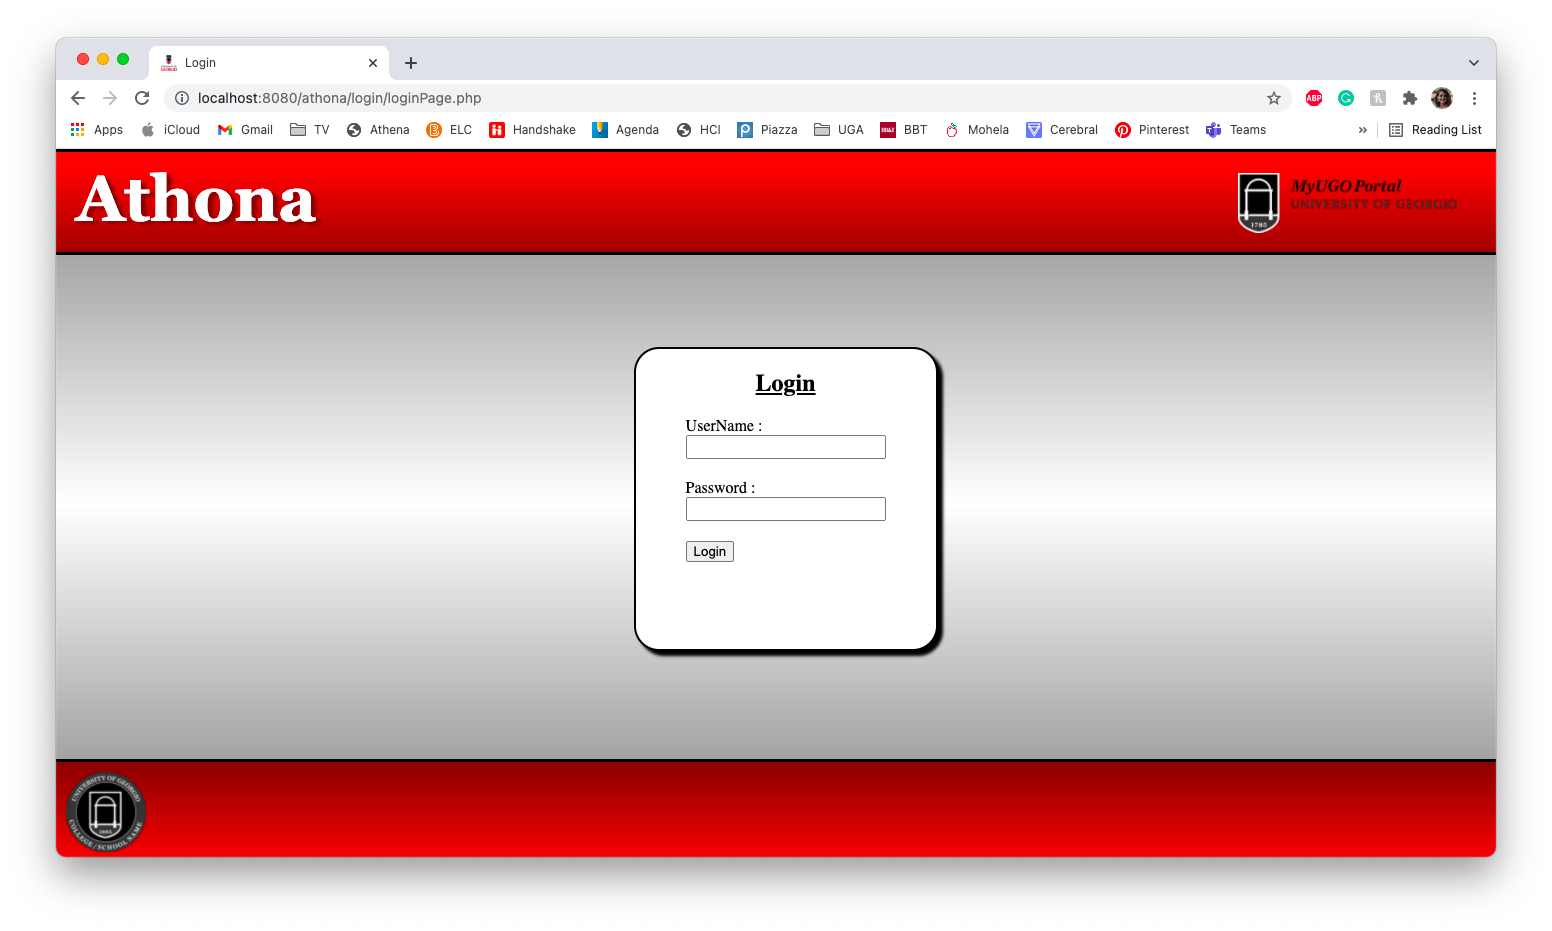
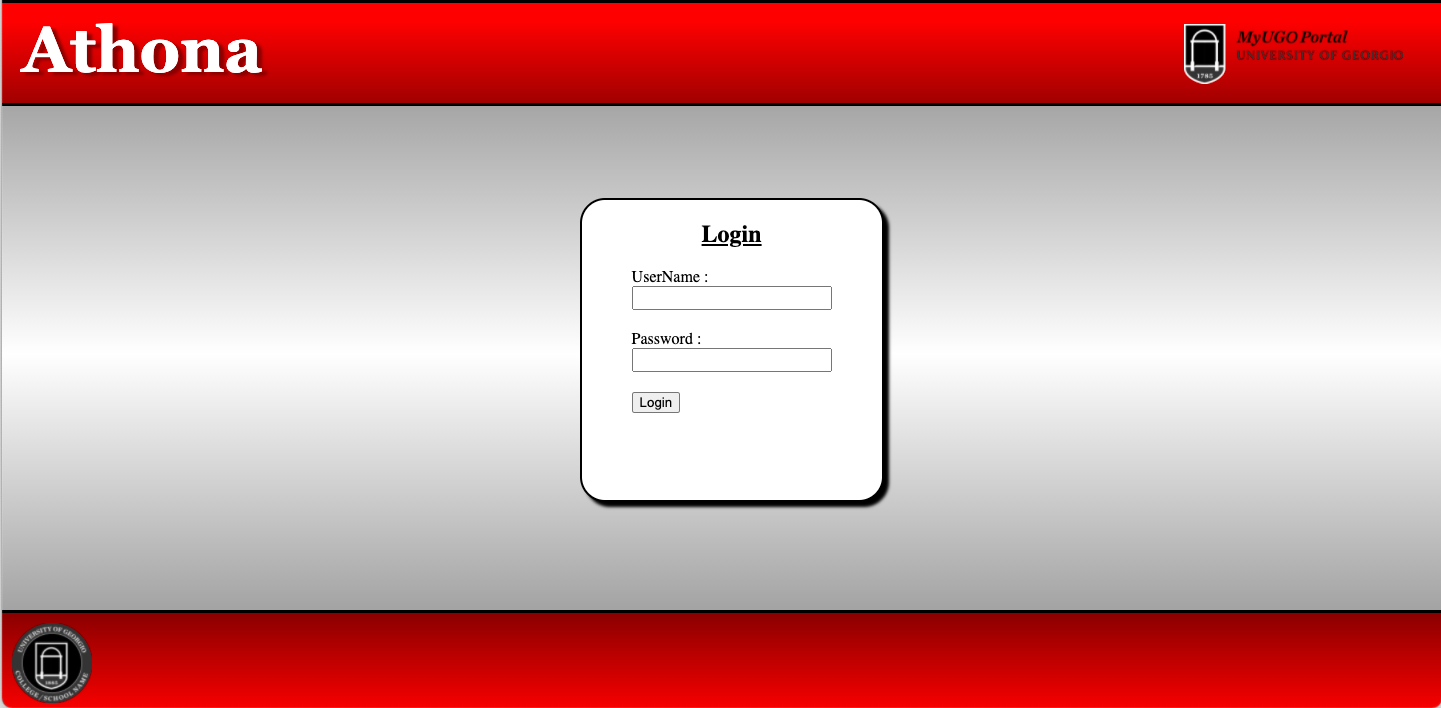
Updated database project, athona web photos

diff --git a/athona.html b/athona.html
@@ -47,7 +47,7 @@
 		</div>
 		<div class="row px-5 justify-content-center">
 			<div class="col-sm-8 px-5 bg-white">
-				<h6><hr></h6><p>Athona is a course registration website meant to be a simple version of UGA's website Athena. Students can add and drop courses and edit their major. Professors can edit their course times and locations as well as view the students enrolled in their course. Finally, Admin has access to a list of all students and professors which they are able to edit, add or delete. Admin can also view a table of statistics about the college. This website was created and formatted using HTML, CSS, PHP, and MySQL.
+				<h6><hr></h6><p>Athona is a course registration website meant to be a simple version of UGA's website Athena. Students can add and drop courses and edit their major. Professors can edit their course times and locations as well as view the students enrolled in their course. Finally, Admin has access to a list of all students and professors which they are able to edit, add or delete. Admin can also view a table of statistics about the college. This website was created and formatted using HTML, CSS, PHP, and SQL.
 				</p>
 				
 			</div>
@@ -62,7 +62,7 @@
 				<p>The login page validates username and password using JavaScript. If an incorrect login is given, an error message is printed to the screen. Based on the type of login, the user is directed to either the admin, professor, or student page. Additionally, there is a logout button at the bottom of each page which redirects back to the login page.
 				</p>
 				<div class="text-center p-0">
-				<img src="login.png" style="Height:475px;">
+				<img src="login.png" style="object-fit: contain;width: 100%;">
 				</div>
 				<h6><br><i>Admin Page</i></h6>
 				<p>The admin page contains two lists: all students enrolled and all professors. These lists are generated dynamically by pulling information from the database using a PHP foreach loop. The admin has the ability to add, delete, and edit both students and professors. Adding, deleting, and editing changes the database directly.
@@ -70,10 +70,10 @@
 				At the bottom of the admin page is a table of statistics. These statistics were calculated using SQL Queries, PHP loops, and PDO Statements.
 				</p>		
 				<div class="text-center p-0">
-				<img src="admin1.png" style="Height:475px;">
+				<img src="admin1.png" style="object-fit: contain;width: 100%;">
 				</div>
 				<div class="text-center p-0">
-				<img src="admin2.png" style="Height:475px;">
+				<img src="admin2.png" style="object-fit: contain;width: 100%;" class="pt-3">
 				</div>
 				
 				<h6><br><i>Professor Page</i></h6>
@@ -82,7 +82,7 @@
 				Professors have the ability to edit their course times and locations. The professor can change the location to anything listed in the dropdown menu with no validation checks. When the professor changes the time, however, if there is a time conflict (they have another class at the same time), an error message is displayed and the time is not changed.
 				</p>
 				<div class="text-center p-0">
-				<img src="prof.png" style="Height:475px;">
+				<img src="prof.png" style="object-fit: contain;width: 100%;">
 				</div>
 				
 				<h6><br><i>Student Page</i></h6>
@@ -93,10 +93,10 @@
 				The list of available courses is generated dynamically (as most aspects of the website are), and shows the course ID, name, time, location, and professor. Hovering over the name of the course will display more specific information - a course description, required textbooks, and the number of seats remaining in the course. The number of seats remaining is calculated using a SQL Query to find the number of students enrolled and subtracting it from the course size.
 				</p>
 				<div class="text-center p-0">
-				<img src="student1.png" style="Height:475px;">
+				<img src="student1.png" style="object-fit: contain;width: 100%;">
 				</div>
 				<div class="text-center p-0">
-				<img src="student2.png" style="Height:475px;">
+				<img src="student2.png" style="object-fit: contain;width: 100%;">
 				</div>
 				
 			</div>

diff --git a/database.html b/database.html
@@ -47,7 +47,7 @@
 		<div class="row px-5 justify-content-center">
 			<div class="col-sm-8 px-5 pb-3 bg-white">
 				<h6><hr></h6><p><i>1. Project Description</i></p>
-				<p>The Georgia secretary of state releases election data every year in which there is an election. (https://sos.ga.gov/index.php/elections) Data is also released about the demographic makeup of the electorate, voter turnout by demographic, and county-level data. The formatting of this data is inconsistent and stored in various excel and csv files which can be difficult to extract insights from. Our goal is to build a database of election data to quickly serve various analytical needs of the public. A relational database would be able to dynamically pull queries from across different election years and contests to quickly find trends. The database would store the following types of records across various tables:</p>
+				<p>The Georgia secretary of state releases election data every year in which there is an election. Data can be found <a href="https://sos.ga.gov/index.php/elections" download target="_blank">here</a>. Data is also released about the demographic makeup of the electorate, voter turnout by demographic, and county-level data. The formatting of this data is inconsistent and stored in various excel and csv files which can be difficult to extract insights from. Our goal is to build a database of election data to quickly serve various analytical needs of the public. A relational database would be able to dynamically pull queries from across different election years and contests to quickly find trends. The database would store the following types of records across various tables:</p>
 				<ul>
 					<li>Contest Results by County (A contest is a single question on a ballot)
 					<li>Voter Registration and turnout by county, race, gender, and age group</li>
@@ -71,7 +71,12 @@
 					<li>Which age group has the highest voter turnout?</li>
 					<li>Which elections are getting the highest voter turnout rates? (Primary, General, Runoffs)</li>
 				</ul>
+				
+				<p><i>4. ER Diagram</i></p>
+				<img src="er.png" style="width:100%;">
+				
 				<a href="#top">Return to Top</a>
+				
 				
 			</div>
 		</div>
